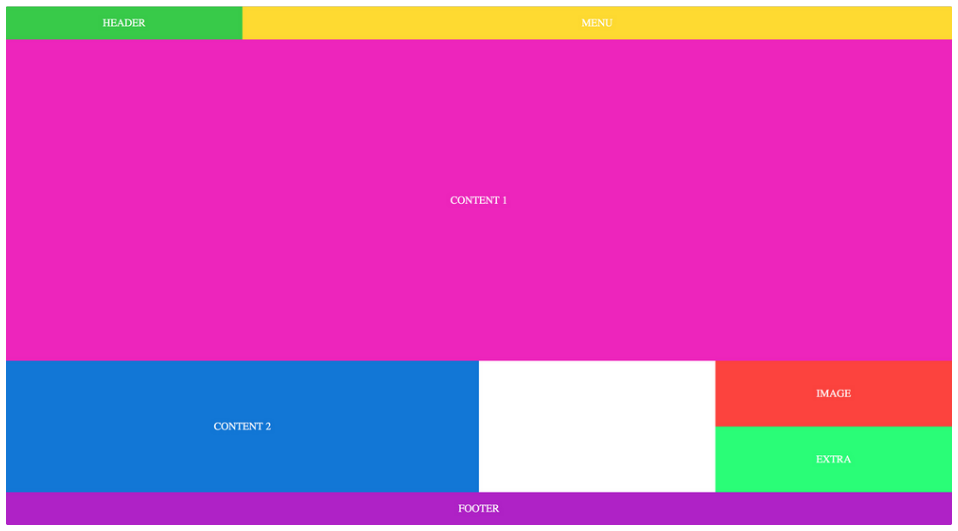
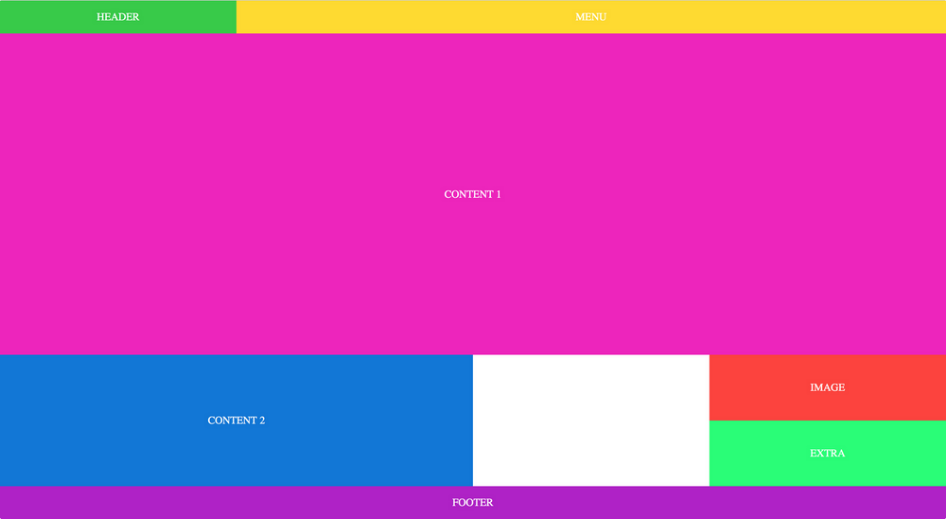
exercicio 3 resolvido

Changed region(s): [[0.0, 0.0, 1.0, 1.0], [0.2146, 0.7707, 0.2759, 0.8324], [0.4598, 0.3391, 0.5211, 0.4008]]

diff --git a/semana2/aula6-flexboxGrid/exercicio3/exercicio3a/exercicio3a.css b/semana2/aula6-flexboxGrid/exercicio3/exercicio3a/exercicio3a.css
@@ -3,7 +3,9 @@ body {
     height: 100vh;
     padding: 0;
     margin: 0;
-    font-size: 10px;
+    font-size: 14px;
+    font-weight: bold;
+    font-family: sans-serif;
     color: white;
 }
 
@@ -13,32 +15,40 @@ body {
     height: 100%;
     display: flex;
     flex-direction: column;
-
-    background-color: aqua;
 }
 
 /*--------------------------------------------*/
 
 #top-container {
     display: flex;
-    flex-grow: 0;
+    /*flex-basis: 6.5%;*/ /*definido ao final do CSS*/
 }
 
 .green-background {
     background-color: green;
     flex-basis: 20%;
+    display: flex;
+    justify-content: center;
+    align-items: center;
 }
 
 .yellow-background {
     background-color: yellow;
+    color: black;
     flex-grow: 1;
+    display: flex;
+    justify-content: center;
+    align-items: center;
 }
 
 /*--------------------------------------------*/
 
 .pink-background {
     background-color: fuchsia;
-    flex-grow: 2;
+    display: flex;
+    justify-content: center;
+    align-items: center;
+    /*flex-basis: 62%;*/ /*definido ao final do CSS*/
 }
 
 /*--------------------------------------------*/
@@ -46,20 +56,16 @@ body {
 #middle-container {
     display: flex;
     flex-direction: row;
-    flex-grow: 0;
+    /*flex-basis: 25%;*/ /*definido ao final do CSS*/
 }
 
 #content2 {
     display: flex;
+    justify-content: center;
     align-items: center;
     background-color: blue;
     flex-basis: 50%;
 }
-
-.blue-background {
-    /*background-color: blue;*/
-}
-
 
 #blank {
     flex-grow: 1;
@@ -69,19 +75,89 @@ body {
     flex-grow: 1;
     display: flex;
     flex-direction: column;
+    background-color: blueviolet;
 }
 
-.red-background {
+#image{
+    flex-grow: 1;
+    display: flex;
+    align-items: center;
+    justify-content: center;
     background-color: red;
 }
 
-.lightgreen-background {
+#extra{
+    flex-grow: 1;
+    display: flex;
+    align-items: center;
+    justify-content: center;
     background-color: lightgreen;
 }
 
 /*--------------------------------------------*/
 
-.purple-background {
+#div-footer {
+    display: flex;
+    justify-content: center;
+    align-items: center;
     background-color: purple;
+    /*flex-basis: 6.5%;*/ /*definido ao final do CSS*/
+}
+
+/*
+#top-container      {flex-grow: 0.5;}
+.pink-background    {flex-grow: 6.6;}
+#middle-container   {flex-grow: 2.3;}
+#div-footer         {flex-grow: 0.5;}
+*/
+
+/*
+#top-container      {height: 6.5%;}
+.pink-background    {height: 62%;}
+#middle-container   {height: 25%;}
+#div-footer         {height: 6.5%;}
+*/
+
+#top-container      {flex-basis: 6.5%;}
+.pink-background    {flex-basis: 62%;}
+#middle-container   {flex-basis: 25%;}
+#div-footer         {flex-basis: 6.5%;}
+/*=============================================*/
+
+#layout {
+    height: 100%;
+    position: fixed;
+    top: 0;
+    left: 40px;
+    display: none;
+}
+
+#layout img {
+    height: 100%;
+    opacity: 1;
+}
+
+#teste {
+    background-color: burlywood;
+    height: 200px;
+    display: flex;
+    display: none;
+    flex-direction: column;
+}
+
+#blue {
+    background-color: blue;
     flex-grow: 1;
 }
+
+#red {
+    background-color: red;
+    flex-grow: 6;
+}
+
+#green {
+    background-color: green;
+    flex-grow: 1;
+}
+
+

diff --git a/semana2/aula6-flexboxGrid/exercicio3/exercicio3a/exercicio3a.html b/semana2/aula6-flexboxGrid/exercicio3/exercicio3a/exercicio3a.html
@@ -16,7 +16,7 @@
             <div class="green-background"> HEADER </div>
             <div class="yellow-background"> MENU </div>
         </div>
-        
+
         <div class="pink-background">
             CONTENT 1
         </div>
@@ -37,11 +37,10 @@
                 </div>
             </div>
         </div>
-        <div>
+        <div id="div-footer">
             <div class="purple-background"> FOOTER </div>
         </div>
     </div>
-
 </body>
 
 </html>
